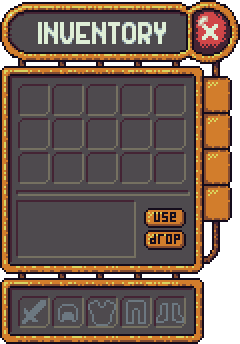
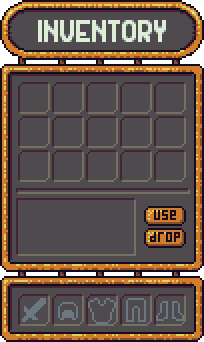
[+] Add the equipped items

diff --git a/src/inventory/init_inventory.c b/src/inventory/init_inventory.c
@@ -16,7 +16,7 @@ void init_inv_background(myrpg_t *myrpg, inventory_t *inv)
     inv->empty_text = sfTexture_createFromFile
         ("./assets/inventory/empty.png", sfFalse);
     inv->image = create_imagefile("assets/inventory/inventory.png",
-        resize.x + 450, resize.y + 120, 1.5);
+        resize.x + 480, resize.y + 120, 1.5);
     return;
 }
 
@@ -31,8 +31,8 @@ button_t **init_buttons_inv(myrpg_t *myrpg)
 
     for (int line = 0; line < 3; line++)
         for (int col = 0; col < 5; col++) {
-            position = (sfVector2f){resize.x + 500 + col * 51.5,
-                resize.y + 269 + line * 51.5};
+            position = (sfVector2f){resize.x + 478 + col * 51.5,
+                resize.y + 265 + line * 51.5};
             items[index] = init_button(my_nbr_to_str(index),
                 position,
                 "./assets/inventory/empty.png", &change_current_item);
@@ -52,9 +52,28 @@ void init_inv_texts(myrpg_t *myrpg, inventory_t *inventory)
     sfFont *font = sfFont_createFromFile("./assets/alagard.ttf");
 
     inventory->name = create_text("", 20,
-        (sfVector2f){resize.x + 480, resize.y + 423}, font);
+        (sfVector2f){resize.x + 510, resize.y + 421}, font);
     inventory->description = create_text("", 15,
-        (sfVector2f){resize.x + 480, resize.y + 480}, font);
+        (sfVector2f){resize.x + 510, resize.y + 478}, font);
+}
+
+sfSprite **init_equipped_items(myrpg_t *myrpg, inventory_t *inventory)
+{
+    sfSprite **equipped = malloc(sizeof(item_t *) * 6);
+    sfVector2f center = sfView_getCenter(myrpg->game_info->map_view);
+    sfVector2f size = sfView_getSize(myrpg->game_info->map_view);
+    sfVector2f resize = {center.x - size.x / 2, center.y - size.y / 2};
+
+    inventory->equipped = malloc(sizeof(item_t *) * 5);
+    for (int i = 0; i < 5; i++) {
+        inventory->equipped[i] = NULL;
+        equipped[i] = sfSprite_create();
+        sfSprite_setScale(equipped[i], (sfVector2f){1.4, 1.4});
+        sfSprite_setPosition(equipped[i], (sfVector2f){resize.x + 506 + i * 51.5, resize.y + 562});
+        sfSprite_setTexture(equipped[i], NULL, sfFalse);
+    }
+    equipped[5] = NULL;
+    return equipped;
 }
 
 inventory_t *init_inventory(myrpg_t *myrpg)
@@ -69,6 +88,7 @@ inventory_t *init_inventory(myrpg_t *myrpg)
         inventory->id[i] = - 1;
     inventory->selected_item = NULL;
     init_inv_texts(myrpg, inventory);
+    inventory->equipped_sprite = init_equipped_items(myrpg, inventory);
     inventory->id[1] = 20;
     inventory->id[12] = 11;
     inventory->id[11] = 4;

diff --git a/src/inventory/display_inventory.c b/src/inventory/display_inventory.c
@@ -7,6 +7,17 @@
 
 #include "../../include/myrpg.h"
 
+void update_equipped_item(myrpg_t *myrpg)
+{
+    inventory_t *inventory = myrpg->player->inventory;
+
+    for (int i = 0; i < 5; i++) {
+        if (inventory->equipped[i] != NULL)
+            sfSprite_setTexture(inventory->equipped_sprite[i],
+                inventory->equipped[i]->texture, sfFalse);
+    }
+}
+
 void update_inventory(myrpg_t *myrpg)
 {
     button_t **inv = myrpg->player->inventory->buttons;
@@ -23,11 +34,19 @@ void update_inventory(myrpg_t *myrpg)
     }
 }
 
+void display_equipped(inventory_t *inventory, sfRenderWindow *window)
+{
+    for (int i = 0; inventory->equipped_sprite[i] != NULL; i++) {
+        sfRenderWindow_drawSprite(window, inventory->equipped_sprite[i], NULL);
+    }
+}
+
 void display_inventory(myrpg_t *myrpg)
 {
     if (myrpg->is_inventory == 0)
         return;
     update_inventory(myrpg);
+    update_equipped_item(myrpg);
     sfRenderWindow_drawSprite(SETTINGS->window,
     myrpg->player->inventory->image->sprite, NULL);
     for (int i = 0; i < 15; i++) {
@@ -38,5 +57,6 @@ void display_inventory(myrpg_t *myrpg)
     myrpg->player->inventory->name, NULL);
     sfRenderWindow_drawText(SETTINGS->window,
     myrpg->player->inventory->description, NULL);
+    display_equipped(myrpg->player->inventory, myrpg->settings->window);
     return;
 }

diff --git a/src/inventory/change_current_item.c b/src/inventory/change_current_item.c
@@ -16,6 +16,7 @@ void change_current_item(button_t *button, void *args)
     if (item_id == -1) {
         return;
     }
+    inventory->selected_slot = button;
     inventory->selected_item = myrpg->items[item_id];
     sfText_setString(inventory->name, inventory->selected_item->name);
     sfText_setString(inventory->description,

diff --git a/include/inventory.h b/include/inventory.h
@@ -20,8 +20,11 @@ typedef struct inventory_s {
     button_t **buttons;
     sfTexture *empty_text;
     item_t *selected_item;
+    button_t *selected_slot;
     sfText *name;
     sfText *description;
+    item_t **equipped;
+    sfSprite **equipped_sprite;
 } inventory_t;
 
 void free_inventory(inventory_t *inventory);

diff --git a/src/movement/move_inventory.c b/src/movement/move_inventory.c
@@ -19,5 +19,7 @@ void move_inventory(inventory_t *inventory, sfVector2f offset)
     }
     sfText_move(inventory->description, offset);
     sfText_move(inventory->name, offset);
+    for (int i = 0; inventory->equipped_sprite[i] != NULL; i++)
+        sfSprite_move(inventory->equipped_sprite[i], offset);
     return;
 }
